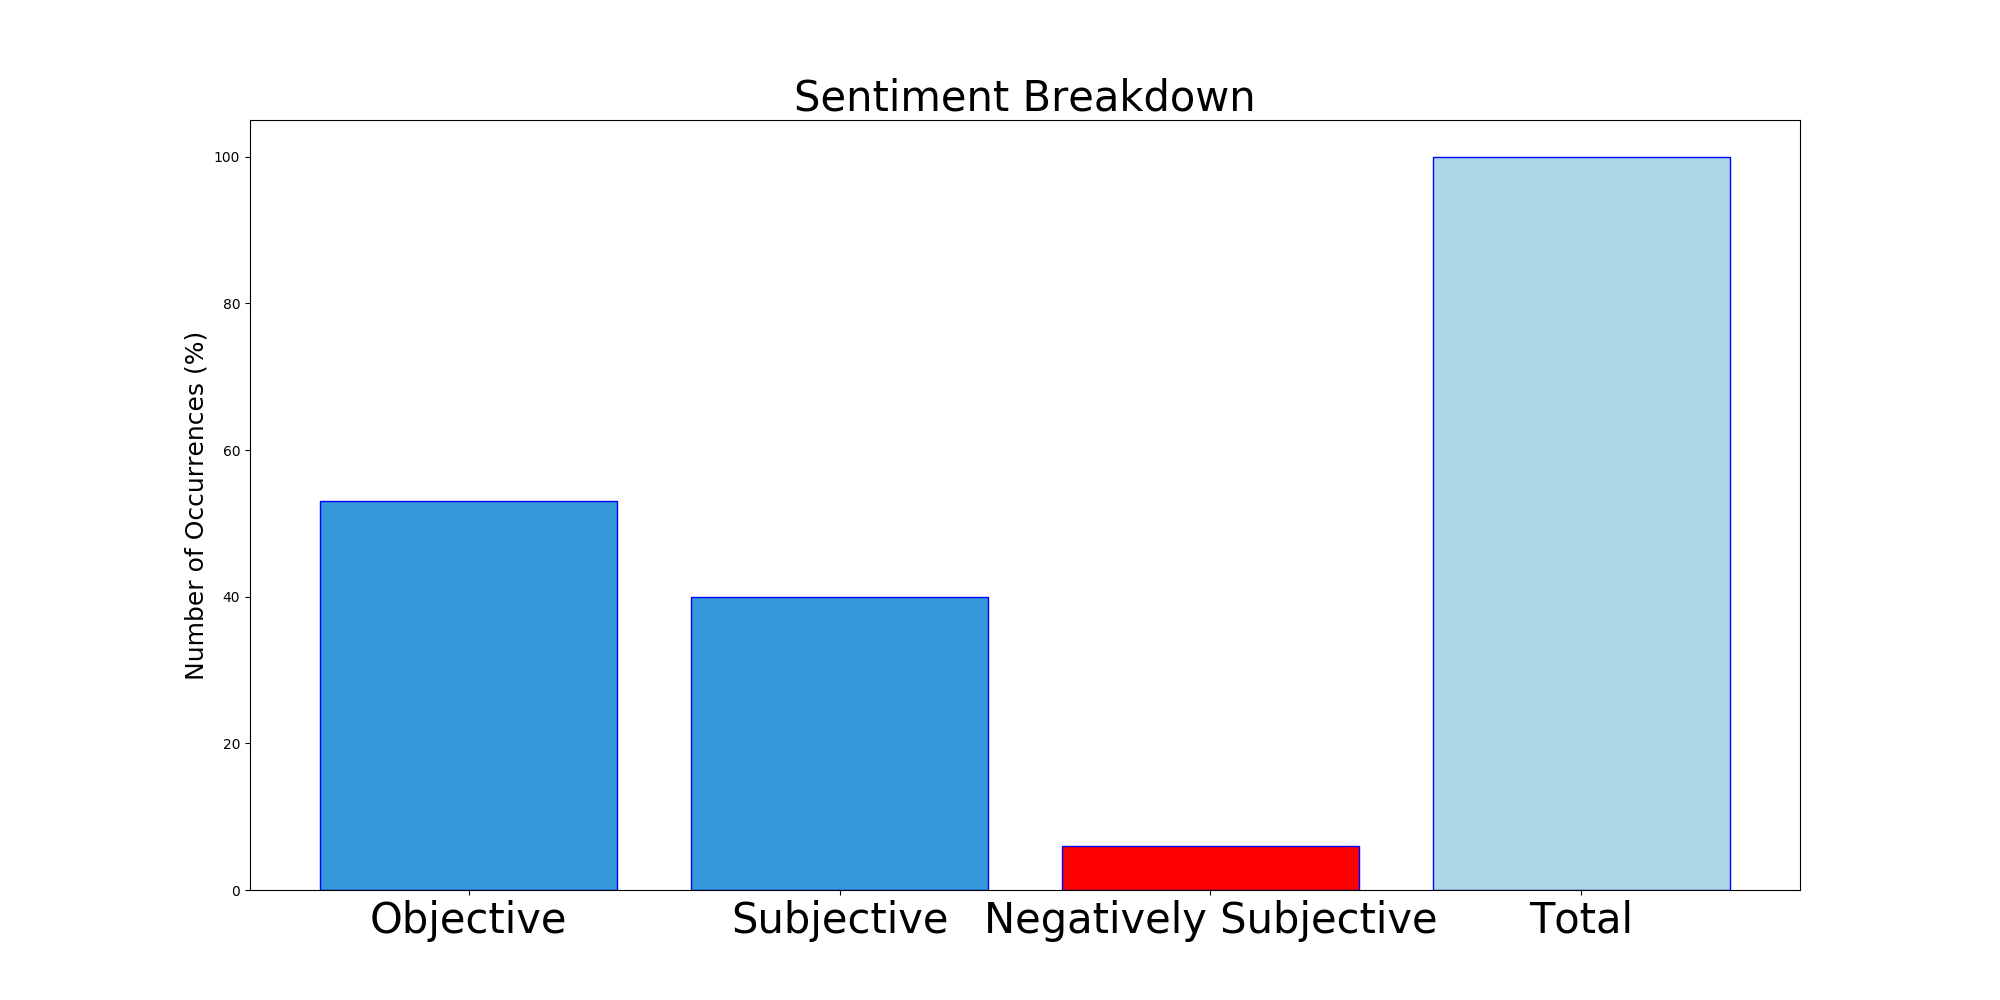
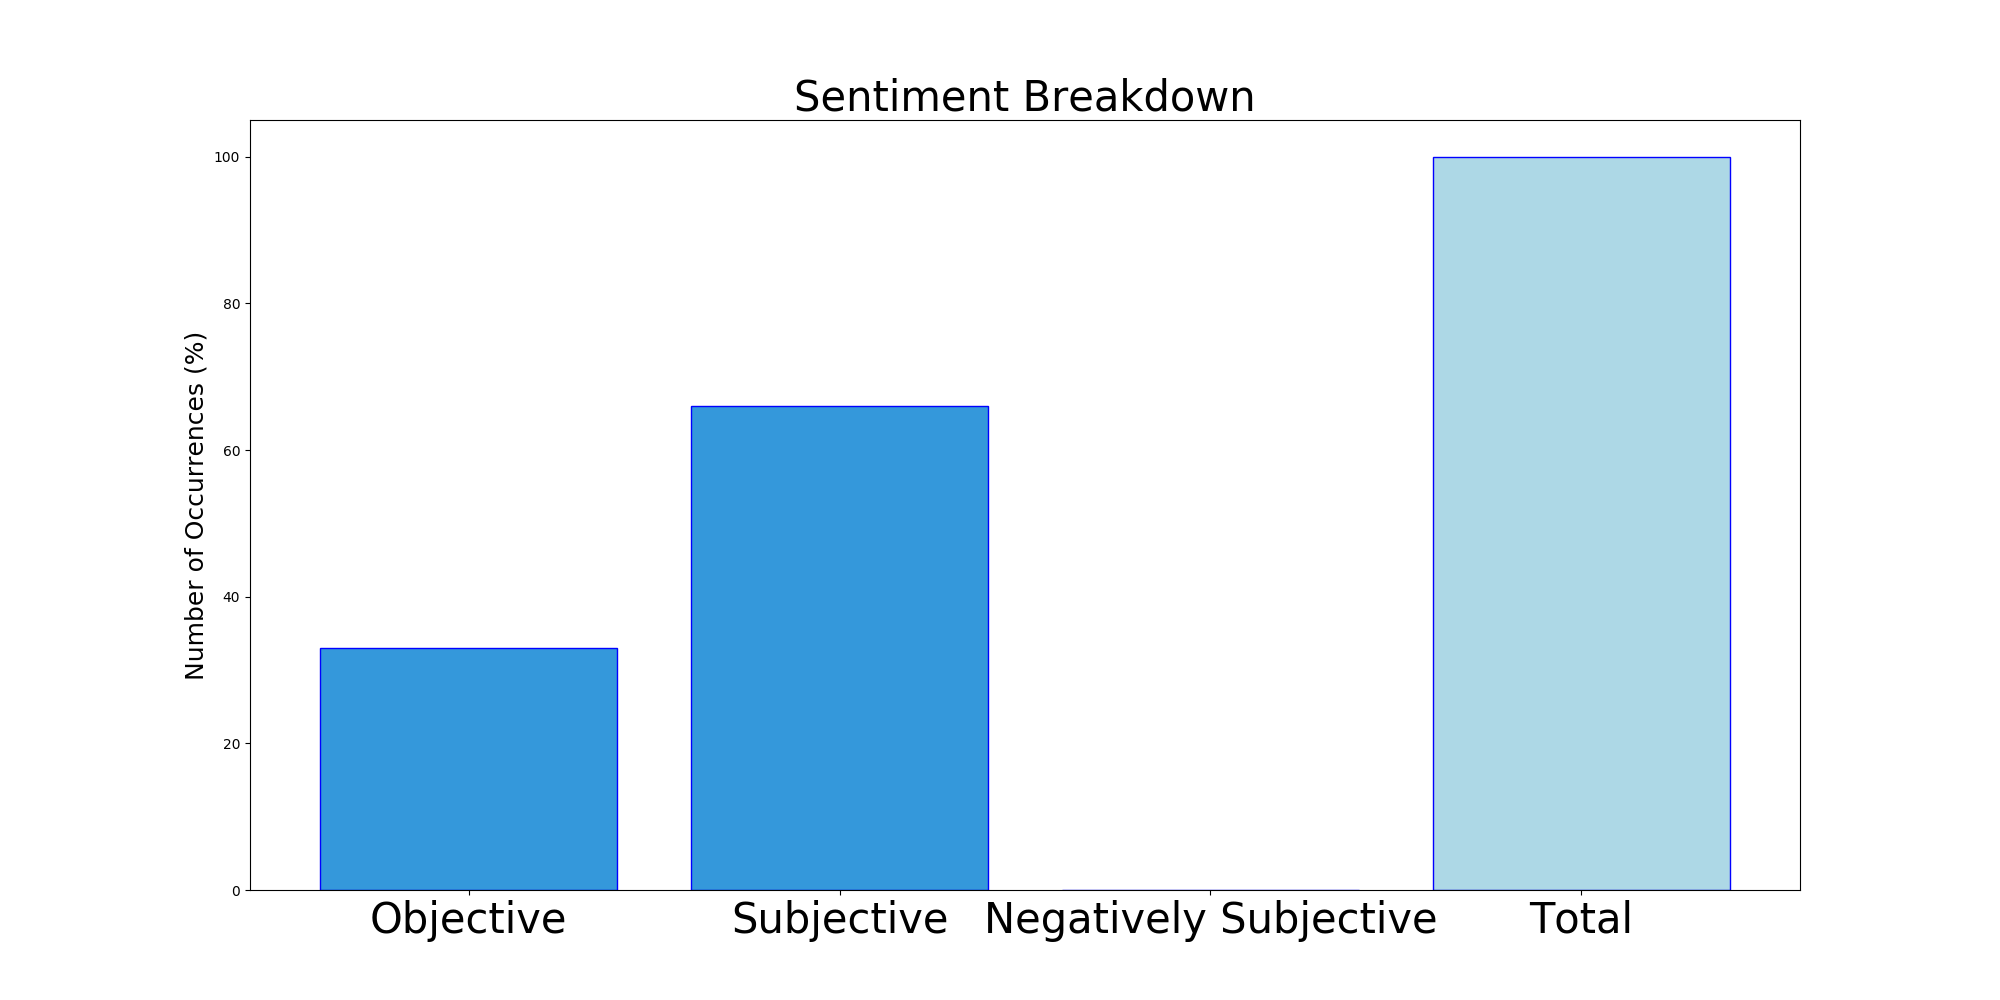
more

Changed region(s): [[0.341, 0.403, 0.496, 0.62], [0.155, 0.496, 0.31, 0.651], [0.527, 0.837, 0.682, 0.899]]

diff --git a/README.md b/README.md
@@ -1,0 +1,47 @@
+# MURCHIE85 TWITTER PROCESSING 
+&#x1F34E; **TOPIC = "POTUS"**
+
+## AUTOMATED RESEARCH SUMMARY
+
+![image](https://marketingplatform.google.com/about/static/images/gmp/analytics-smb-benefit.jpg)
+<br></br>
+<div class="alert alert-block alert-danger"><b> This repo is for pulling metrics on a given keyword or hashtag and performs a series of reporting and analysis.</b></div>
+
+
+
+![image](TWEETS.png)
+
+
+
+|                **Sample-Tweets**        || :-------------: || <div class="alert alert-block alert-warning">RT @prayingmedic: "I will gladly take all those slings and arrows for you." - POTUSBut, even that, can be undone. The enormity of what is…</div> <div class="alert alert-block alert-success">RT @shannoncoulter: You can tell me all you want about how your plan to elect a 78 year old white man who has been in congress 30 years to…</div> <div class="alert alert-block alert-info">RT @joybird4u: @prayingmedic I am very concerned for @POTUS  's safety.  He has been talking about the movie, "Gone With the Wind" at sever…</div> |The most popular user is: **CalBrownBear**
+<div class="alert alert-block alert-danger"> RT @je_mclaughlin: Never, EVER forget that POTUS Obama asked @senatemajldr Mitch McConnell to give a joint bipartisan statement regarding t…</div>
+
+## GOOGLE SEARCH DEMOGRAPHICS 
+Tweeting demographic           | Countries:-------------------------:|:-------------------------:![](maps.png)  |  ![](gcompare.png)<br>
+## RELATED TOPICS  & QUERIES 
+topics          | searches:-------------------------:|:-------------------------:![](topic.png)  |  ![](query.png)<br><br>
+
+## RELATED METRICS<br>
+| Metric | Value || ------------- | ------------- || #1 Most tweeted to  | **POTUS** || #2 Most tweeted to  | **CBS_Herridge** || #3 Most tweeted to  | **CBSNews** || NewProfiles (less than 10 days) | 0.0%  || Tweeters with < 10 followers  | 3.0%|| Tweeters with > 1000000 followers  | 0.0%  |
+
+<br>
+## MOST POPULAR TWEET TERMS <br>
+| Popularity Rank  | Term || ------------- | ------------- || first  | **POTUS**  || second  | **BACK**  || third  | **@POTUS** || fourth  | **@CBS_HERRIDGE:**  || fifth  | **SOURCE**  |
+
+<br>
+![image](comparetweets.png)
+## Twitter Bio Analysis![image](BIO.png)### SENTIMENT ANALYSIS
+![image](sentiment.png)VIEWS WERE : **SUBJECTIVE**  (66.67%) & **NEGATIVELY-SUBJECTIVE** (0.0%) **OBJECTIVE** (33.33%)
+
+### TWEET SAMPLE 
+Random value picked from array: 
+<div class="alert alert-block alert-info">RT @prayingmedic: "I will gladly take all those slings and arrows for you." - POTUS
+But, even that, can be undone. 
+The enormity of what is…</div>
+### MOST RETWEETED
+The most retweeted user is: **CalBrownBear**
+<div class="alert alert-block alert-danger"> RT @je_mclaughlin: Never, EVER forget that POTUS Obama asked @senatemajldr Mitch McConnell to give a joint bipartisan statement regarding t…</div>
+### CONCLUSION & EXTERNAL ANALYSIS
+*This is my [Adam McMurchie`s] opinion on the data from the tweets, it serves as no objective truth.Since the tweets themselves are a mixture of fact & opinion.<br>
+Authors analytical summary on request.
+**RECOMMENDATIONS** WILL BE UPDATED IN NEXT  24 HOURS <br>
